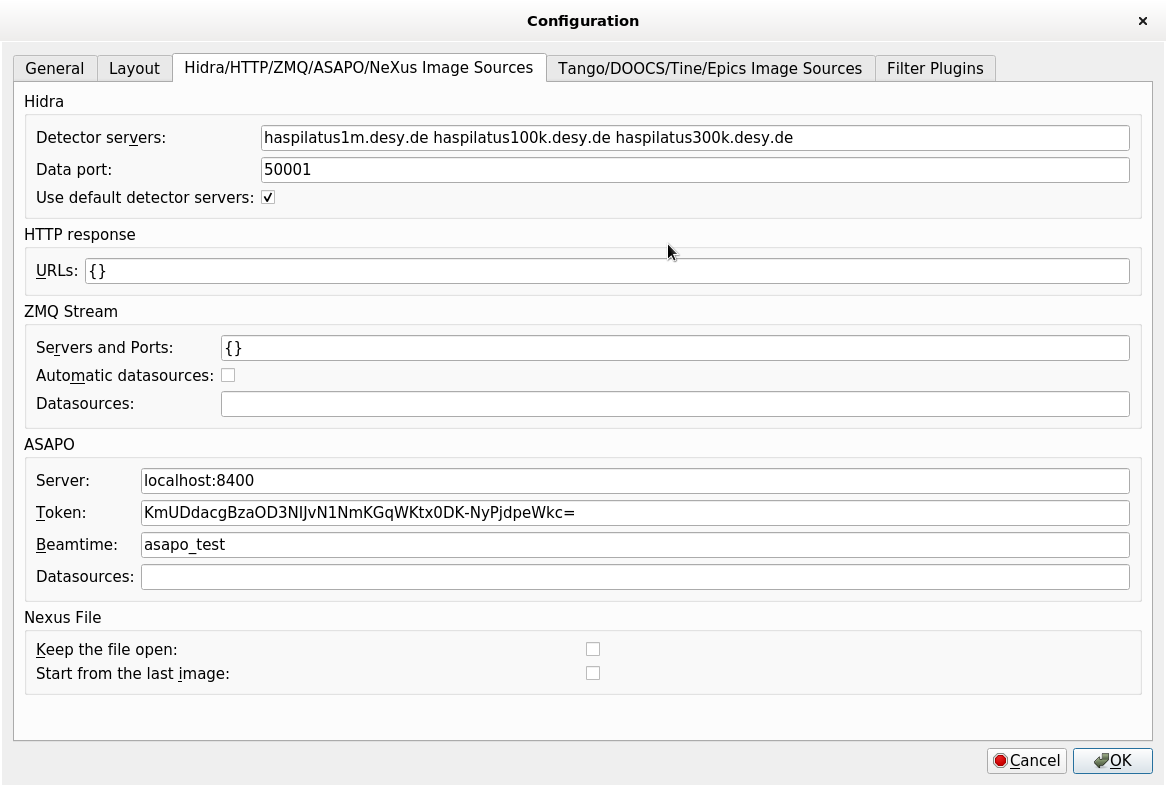
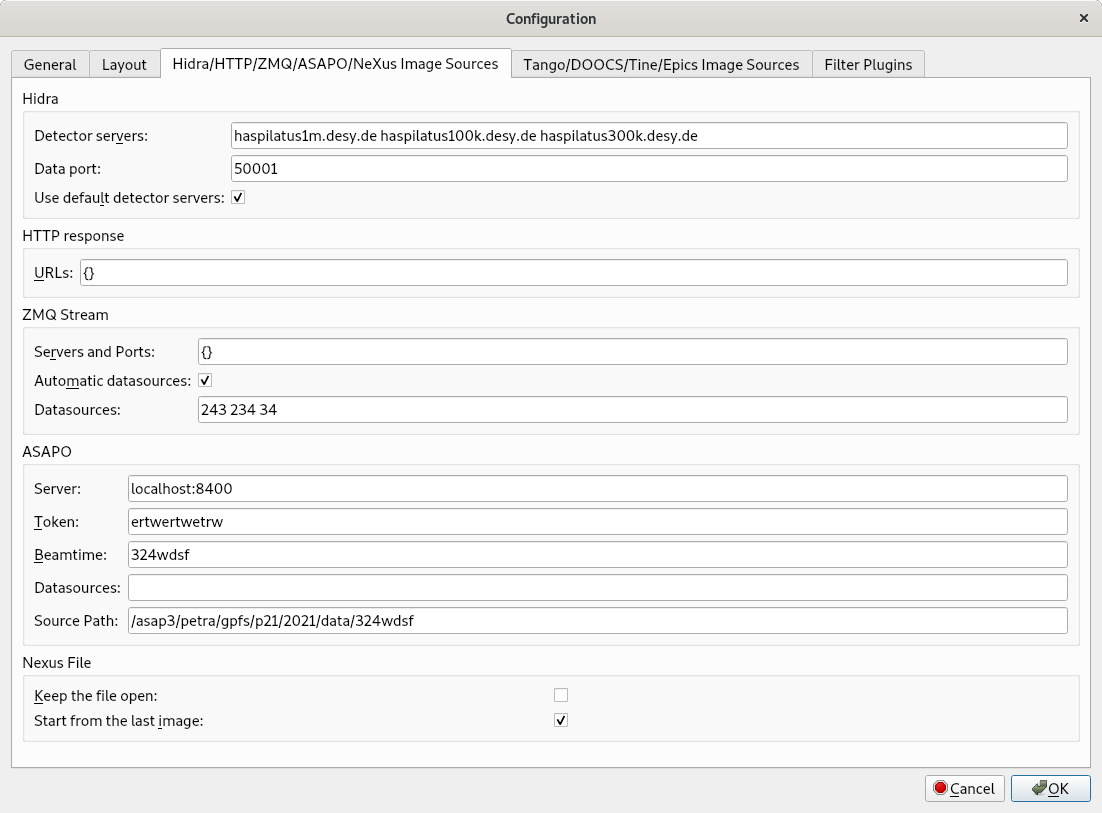
Issue 517: add sourcepath for asapo image source (#518)
* add sourcepath for asapo image source

* find fshas flag

Changed region(s): [[0.0, 0.0, 1.0, 1.0], [0.5554, 0.305, 0.5862, 0.3355]]

diff --git a/lavuelib/help/98092151.html b/lavuelib/help/98092151.html
@@ -44,7 +44,7 @@
         
                         </div>
                     <div id="main-content" class="wiki-content group">
-                    <p><br/></p><p>The third tab of the configuration dialog contains <strong>Image Sources</strong> configuration. It allows for the user to adjust image sources and their dialogs.</p><p><span class="confluence-embedded-file-wrapper confluence-embedded-manual-size"><img class="confluence-embedded-image"  src="attachments/98092151/129385454.png" data-image-src="attachments/98092151/129385454.png" data-unresolved-comment-count="0" data-linked-resource-id="129385454" data-linked-resource-version="7" data-linked-resource-type="attachment" data-linked-resource-default-alias="lavue_config_isources.png" data-base-url="https://confluence.desy.de" data-linked-resource-content-type="image/png" data-linked-resource-container-id="98092151" data-linked-resource-container-version="20"></span></p><p><strong>Hidra:</strong></p><ul><li><strong>Detector servers:  </strong>possible hidra detector hosts separated by spaces</li><li><strong>Data port: </strong>hidra data port. Each instance of lavue on the same host should use a different data port</li><li><strong>Use default detector servers: </strong>add default detector server names from the DESY pool</li></ul><p><strong>HTTP response</strong></p><ul><li><strong> URLs:</strong> <a href="https://www.json.org/" class="external-link" rel="nofollow">JSON</a> dictionary assigning labels to HTTP urls</li></ul><p><strong>ZMQ Stream</strong></p><ul><li><strong>Servers and Ports:</strong><a href="https://www.json.org/" class="external-link" rel="nofollow"> JSON</a> dictionary assigning labels to server and port of ZMQ stream</li><li><strong>Automatic datasources: </strong>selects possible datasources from ZMQ stream metadata</li><li><strong>Datasources: </strong>defines possible datasources, i.e. ZMQ topics, separated by spaces</li></ul><p><strong>ASAPO</strong></p><ul><li><strong>Server: </strong>ASAPO servers, i.e. host:port</li><li><strong>Token: </strong>token to asapo servers</li><li><strong>Beamtime: </strong>a name of beamtime used by asapo</li><li><strong>Datasources:</strong> defines possible datasource names which are separated by spaces</li></ul><p><strong>Nexus File</strong></p><ul><li><strong>Keep the file open:</strong> does not close the nexus file after reading the field frame</li><li><strong>Start from the last image: </strong>displays only the last image frame</li></ul><p><br/></p><p><br/></p>
+                    <p><br/></p><p>The third tab of the configuration dialog contains <strong>Image Sources</strong> configuration. It allows for the user to adjust image sources and their dialogs.</p><p><span class="confluence-embedded-file-wrapper confluence-embedded-manual-size"><img class="confluence-embedded-image"  src="attachments/98092151/129385454.png" data-image-src="attachments/98092151/129385454.png" data-unresolved-comment-count="0" data-linked-resource-id="129385454" data-linked-resource-version="7" data-linked-resource-type="attachment" data-linked-resource-default-alias="lavue_config_isources.png" data-base-url="https://confluence.desy.de" data-linked-resource-content-type="image/png" data-linked-resource-container-id="98092151" data-linked-resource-container-version="20"></span></p><p><strong>Hidra:</strong></p><ul><li><strong>Detector servers:  </strong>possible hidra detector hosts separated by spaces</li><li><strong>Data port: </strong>hidra data port. Each instance of lavue on the same host should use a different data port</li><li><strong>Use default detector servers: </strong>add default detector server names from the DESY pool</li></ul><p><strong>HTTP response</strong></p><ul><li><strong> URLs:</strong> <a href="https://www.json.org/" class="external-link" rel="nofollow">JSON</a> dictionary assigning labels to HTTP urls</li></ul><p><strong>ZMQ Stream</strong></p><ul><li><strong>Servers and Ports:</strong><a href="https://www.json.org/" class="external-link" rel="nofollow"> JSON</a> dictionary assigning labels to server and port of ZMQ stream</li><li><strong>Automatic datasources: </strong>selects possible datasources from ZMQ stream metadata</li><li><strong>Datasources: </strong>defines possible datasources, i.e. ZMQ topics, separated by spaces</li></ul><p><strong>ASAPO</strong></p><ul><li><strong>Server: </strong>ASAPO servers, i.e. host:port</li><li><strong>Token: </strong>token to asapo servers</li><li><strong>Beamtime: </strong>a name of beamtime used by asapo</li><li><strong>Datasources:</strong> defines possible datasource names which are separated by spaces</li><li><strong>Source Path: </strong>a path to ASAPO files, e.g. /asap3/petra.gpfs/{beamline}/{year}/data/{beamtime_id} </li></ul><p><strong>Nexus File</strong></p><ul><li><strong>Keep the file open:</strong> does not close the nexus file after reading the field frame</li><li><strong>Start from the last image: </strong>displays only the last image frame</li></ul><p><br/></p><p><br/></p>
                     </div>
 
                                         </div><section><!-- <div class="pageSection group">

diff --git a/lavuelib/imageSource.py b/lavuelib/imageSource.py
@@ -1788,6 +1788,8 @@ class ASAPOSource(BaseSource):
         self.__token = ""
         #: (:obj:`str`) beamtime
         self.__beamtime = ""
+        #: (:obj:`str`) sourcepath
+        self.__sourcepath = ""
         #: (:obj:`str`) asapo server
         self.__server = ""
         #: (:obj:`str`) stream
@@ -1828,7 +1830,7 @@ class ASAPOSource(BaseSource):
         if self._configuration != configuration:
             try:
                 (self.__server, self.__datasource,
-                 self.__stream, self.__beamtime,
+                 self.__stream, self.__beamtime, self.__sourcepath,
                  self.__token) = str(configuration).split(",", 5)
                 self.__lastname = ""
                 self.__lastid = ""
@@ -1885,15 +1887,26 @@ class ASAPOSource(BaseSource):
 
             with QtCore.QMutexLocker(self.__mutex):
                 if self.__server and self.__beamtime and self.__token:
+                    if self.__sourcepath:
+                        sourcepath = self.__sourcepath
+                        if not os.path.isdir(sourcepath) or \
+                           sourcepath.startswith("/asap3/") or \
+                           sourcepath.startswith("/beamline/"):
+                            hasfs = False
+                        else:
+                            hasfs = True
+                    else:
+                        hasfs = False
+                        sourcepath = ""
                     if hasattr(asapo_consumer, "create_server_broker"):
                         self.__broker = asapo_consumer.create_server_broker(
-                            self.__server, "", False, self.__beamtime,
+                            self.__server, sourcepath, hasfs, self.__beamtime,
                             self.__datasource, self.__token,
                             self._timeout or 3000)
                         self.__asapoversion = 'old'
                     else:
                         self.__broker = asapo_consumer.create_consumer(
-                            self.__server, "", False, self.__beamtime,
+                            self.__server, sourcepath, hasfs, self.__beamtime,
                             self.__datasource, self.__token,
                             self._timeout or 3000)
                         self.__asapoversion = 'last'

diff --git a/lavuelib/sourceWidget.py b/lavuelib/sourceWidget.py
@@ -713,6 +713,8 @@ class ASAPOSourceWidget(SourceBaseWidget):
         self.__server = ""
         #: (:obj:`str`>) beamtime id
         self.__beamtime = ""
+        #: (:obj:`str`>) source path
+        self.__sourcepath = ""
         #: (:obj:`str`>) asapo token
         self.__token = ""
 
@@ -774,17 +776,19 @@ class ASAPOSourceWidget(SourceBaseWidget):
         :returns configuration: configuration string
         :rtype configuration: :obj:`str`
         """
-        return "%s,%s,%s,%s,%s" % (
+        return "%s,%s,%s,%s,%s,%s" % (
             self.__server,
             str(self._ui.asapodatasourceComboBox.currentText()),
             str(self._ui.asapostreamComboBox.currentText()),
             self.__beamtime,
+            self.__sourcepath,
             self.__token
         )
 
     def updateMetaData(self, asaposerver=None, asapotoken=None,
                        asapobeamtime=None,
                        asapodatasources=None, asapostreams=None,
+                       asaposourcepath=None,
                        disconnect=True,
                        **kargs):
         """ update source input parameters
@@ -799,6 +803,8 @@ class ASAPOSourceWidget(SourceBaseWidget):
         :type asapodatasources: :obj:`list` <:obj:`str`> >
         :param asapostreams: asapo stream names
         :type asapostreams: :obj:`list` <:obj:`str`> >
+        :param asaposourcepath: source path
+        :type asaposourcepath: :obj:`str`
         :param disconnect: disconnect on update
         :type disconnect: :obj:`bool`
         :param kargs:  source widget input parameter dictionary
@@ -828,6 +834,8 @@ class ASAPOSourceWidget(SourceBaseWidget):
             self.__token = asapotoken
         if asapobeamtime is not None:
             self.__beamtime = asapobeamtime
+        if asaposourcepath is not None:
+            self.__sourcepath = asaposourcepath
         updatecombo = False
         if isinstance(asapostreams, list):
             with QtCore.QMutexLocker(self.__mutex):

diff --git a/lavuelib/settings.py b/lavuelib/settings.py
@@ -203,6 +203,8 @@ class Settings(object):
         self.asapotoken = ""
         #: (:obj:`str`) asapo beamtime id
         self.asapobeamtime = ""
+        #: (:obj:`str`) asapo sourcepath
+        self.asaposourcepath = ""
         #: (:obj:`list` < :obj:`str` > ) asapo datasources
         self.asapodatasources = []
 
@@ -631,23 +633,40 @@ class Settings(object):
             self.asapodatasources = [str(tp) for tp in qstval]
         elif qstval2:
             self.asapodatasources = [str(tp) for tp in qstval2]
+        else:
+            self.asapodatasources = []
 
         qstval = \
             settings.value(
                 "Configuration/ASAPOServer", type=str)
         if qstval:
             self.asaposerver = str(qstval)
+        else:
+            self.asaposerver = ""
 
         qstval = \
             settings.value(
                 "Configuration/ASAPOToken", type=str)
         if qstval:
             self.asapotoken = str(qstval)
+        else:
+            self.asapotoken = ""
+
         qstval = \
             settings.value(
                 "Configuration/ASAPOBeamtime", type=str)
         if qstval:
             self.asapobeamtime = str(qstval)
+        else:
+            self.asapobeamtime = ""
+
+        qstval = \
+            settings.value(
+                "Configuration/ASAPOSourcePath", type=str)
+        if qstval:
+            self.asaposourcepath = str(qstval)
+        else:
+            self.asaposourcepath = ""
 
         qstval = \
             settings.value(
@@ -1038,6 +1057,9 @@ class Settings(object):
         settings.setValue(
             "Configuration/ASAPOBeamtime",
             self.asapobeamtime)
+        settings.setValue(
+            "Configuration/ASAPOSourcePath",
+            self.asaposourcepath)
         settings.setValue(
             "Configuration/HidraDetectorServers",
             self.detservers)

diff --git a/lavuelib/liveViewer.py b/lavuelib/liveViewer.py
@@ -1231,7 +1231,8 @@ class LiveViewer(QtGui.QDialog):
             asaposerver=self.__settings.asaposerver,
             asapotoken=self.__settings.asapotoken,
             asapodatasources=self.__settings.asapodatasources,
-            asapobeamtime=self.__settings.asapobeamtime
+            asapobeamtime=self.__settings.asapobeamtime,
+            asaposourecepath=self.__settings.asaposourcepath
         )
         self._updateSource(-1, -1)
 
@@ -2239,6 +2240,7 @@ class LiveViewer(QtGui.QDialog):
         cnfdlg.asaposerver = self.__settings.asaposerver
         cnfdlg.asapotoken = self.__settings.asapotoken
         cnfdlg.asapobeamtime = self.__settings.asapobeamtime
+        cnfdlg.asaposourcepath = self.__settings.asaposourcepath
         cnfdlg.asapodatasources = self.__settings.asapodatasources
         cnfdlg.detservers = json.dumps(self.__mergeDetServers(
             HIDRASERVERLIST if cnfdlg.defdetservers else {"pool": []},
@@ -2486,6 +2488,9 @@ class LiveViewer(QtGui.QDialog):
             setsrc = True
         if self.__settings.asapobeamtime != dialog.asapobeamtime:
             self.__settings.asapobeamtime = dialog.asapobeamtime
+            setsrc = True
+        if self.__settings.asaposourcepath != dialog.asaposourcepath:
+            self.__settings.asaposourcepath = dialog.asaposourcepath
             setsrc = True
         if self.__settings.autozmqtopics != dialog.autozmqtopics:
             self.__settings.autozmqtopics = dialog.autozmqtopics

diff --git a/lavuelib/configDialog.py b/lavuelib/configDialog.py
@@ -291,6 +291,8 @@ class ConfigDialog(QtGui.QDialog):
         self.asapotoken = ""
         #: (:obj:`str`) asapo beamtime id
         self.asapobeamtime = ""
+        #: (:obj:`str`) asapo sourcepath
+        self.asaposourcepath = ""
         #: (:obj:`list` < :obj:`str` > ) asapo datasources
         self.asapodatasources = []
 
@@ -475,6 +477,7 @@ class ConfigDialog(QtGui.QDialog):
         self.__ui.asaposerverLineEdit.setText(self.asaposerver)
         self.__ui.asapotokenLineEdit.setText(self.asapotoken)
         self.__ui.asapobeamtimeLineEdit.setText(self.asapobeamtime)
+        self.__ui.asaposourcepathLineEdit.setText(self.asaposourcepath)
         self.__ui.defdetserversCheckBox.setChecked(self.defdetservers)
         self.__ui.autozmqtopicsCheckBox.setChecked(self.autozmqtopics)
         self.__ui.interruptCheckBox.setChecked(self.interruptonerror)
@@ -944,6 +947,8 @@ class ConfigDialog(QtGui.QDialog):
             self.__ui.asapotokenLineEdit.text()).strip()
         self.asapobeamtime = str(
             self.__ui.asapobeamtimeLineEdit.text()).strip()
+        self.asaposourcepath = str(
+            self.__ui.asaposourcepathLineEdit.text()).strip()
         detservers = str(
             self.__ui.detserversLineEdit.text()).strip().split(" ")
         self.detservers = json.dumps([ds for ds in detservers if ds])

diff --git a/lavuelib/release.py b/lavuelib/release.py
@@ -26,4 +26,4 @@
 """ release version """
 
 #: (:obj:`str`) the live viewer version
-__version__ = "2.61.1"
+__version__ = "2.62.0"
